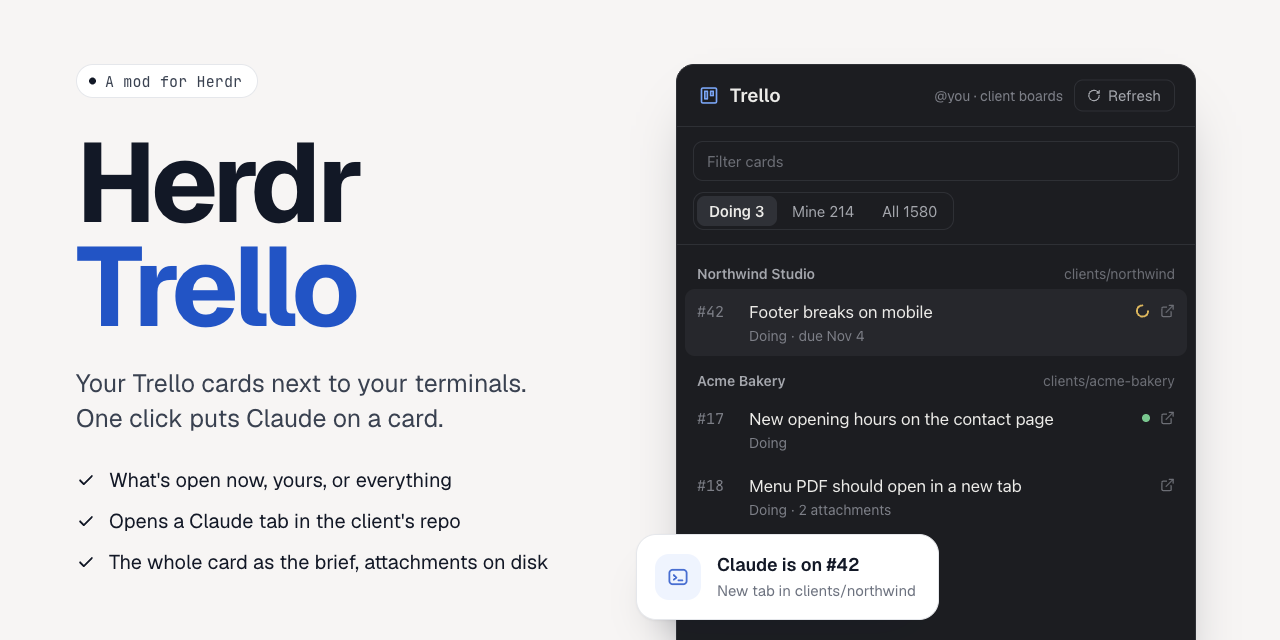
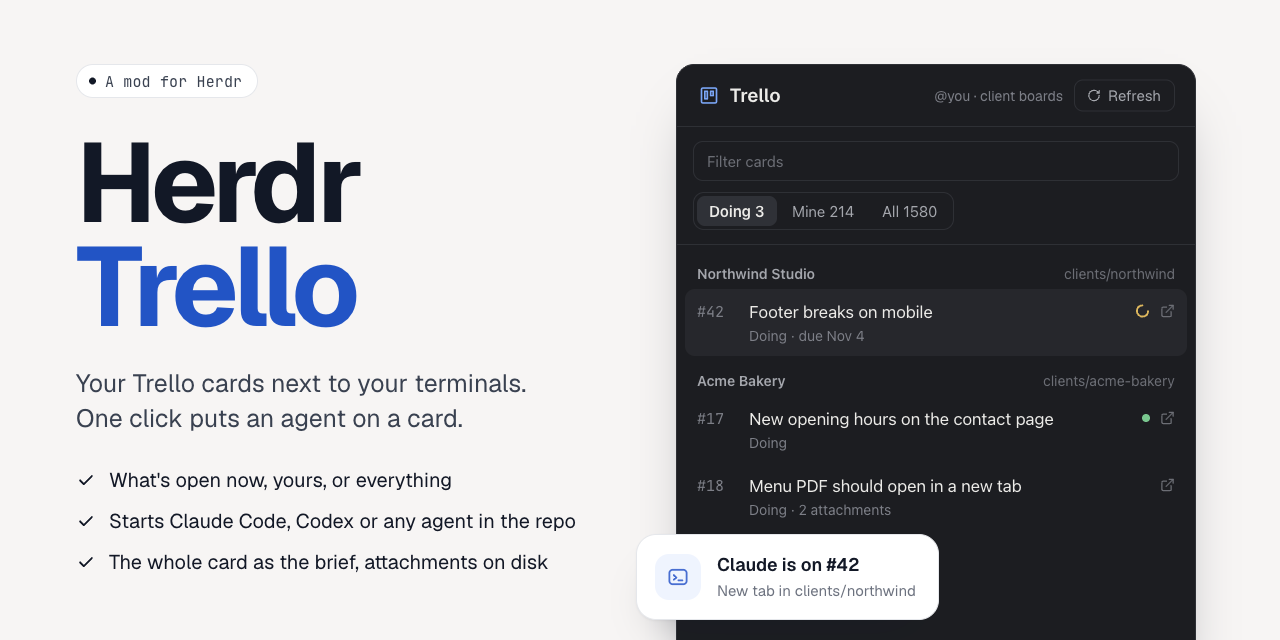
Trello: the agent a card starts is a setting
`agent` in settings.json (default ["claude"]) is what a card's tab runs, so
Codex or any other agent Herdr runs works too. The buttons and notices use its
name. README and the social image say so.

Claude-Session: https://claude.ai/code/session_01MQx9JMZZstjxJFi87a3Xjn

Changed region(s): [[0.0938, 0.7812, 0.4375, 0.8438], [0.1875, 0.625, 0.3438, 0.6875]]

diff --git a/mods/trello/start.js b/mods/trello/start.js
@@ -1,5 +1,5 @@
 import { spaces, panes, run, notify, pickFolder, shared, setShared } from "herdr";
-import { settings, expand, short, inside } from "./api.js";
+import { settings, expand, short, inside, agentArgv, agentName } from "./api.js";
 import { brief } from "./brief.js";
 
 // The mod's shared state, one key so a redraw asks Herdr once, seen by the panel and the card
@@ -66,7 +66,7 @@ export async function pickRepo(board) {
   return folder;
 }
 
-// A new Claude tab in the board's folder with the card as its brief. `card`: { id, number, title,
+// A new agent tab in the board's folder with the card as its brief. `card`: { id, number, title,
 // board }; `raw`: the card as the dialog loaded it, so it isn't fetched twice. Resolves with the
 // folder used, or null when no folder was picked.
 export async function start(card, repo, raw = null) {
@@ -77,8 +77,8 @@ export async function start(card, repo, raw = null) {
     dir: `${expand(config.attachments)}/${card.board.replace(/[\\/:]+/g, "-")} #${card.number}` });
   if (r.empty) throw new Error("This card is empty. Give it a title that says what to do, then try again.");
   const name = tabName(card), space = spaceFor(repo);
-  if (space) run("tab.new", { space: space.id, name, folder: repo, argv: ["claude"], task: r.brief });
-  else run("space.new", { folder: repo, tab: name, argv: ["claude"], task: r.brief });
+  if (space) run("tab.new", { space: space.id, name, folder: repo, argv: agentArgv(config), task: r.brief });
+  else run("space.new", { folder: repo, tab: name, argv: agentArgv(config), task: r.brief });
   // Remember the new tab, so the next click on this card goes there. Found by its name among the
   // tabs no other card has: "the active tab" can still be the old one right after tab.new, and a
   // wrong link is worse than none (no link only means the next click opens a fresh tab).
@@ -86,6 +86,6 @@ export async function start(card, repo, raw = null) {
   const now = space ? spaces().find((s) => s.id === space.id) : spaces().find((s) => s.folder === repo);
   const tab = now?.tabs.find((t) => t.name === name && !taken.has(t.id));
   if (tab) update("links", { [card.id]: tab.id }, true);
-  notify({ title: "Claude is on it", body: `#${card.number} ${card.title} · ${short(repo)}`, level: "success", timeout: 3000 });
+  notify({ title: `${agentName()} is on it`, body: `#${card.number} ${card.title} · ${short(repo)}`, level: "success", timeout: 3000 });
   return repo;
 }

diff --git a/mods/trello/viewer.js b/mods/trello/viewer.js
@@ -2,7 +2,7 @@ import * as fs from "fs/promises";
 import { div, image } from "gpui-kit";
 import { v_flex, h_flex, TextView, TextareaState, Textarea } from "gpui-base";
 import { exec, theme, closeOverlay, openOverlay } from "herdr";
-import { trello, short, data } from "./api.js";
+import { trello, short, data, agentName } from "./api.js";
 import { glyph, spinner } from "./icons.js";
 import { blocks, picture, failed, loadPicture } from "./pictures.js";
 import { start, tabOf, goTo, pickRepo, nudge } from "./start.js";
@@ -161,7 +161,7 @@ export class Viewer {
     cx.notify();
   }
 
-  // Start Claude on the card, or go to the tab it already has. The dialog closes so the tab shows.
+  // Start the agent on the card, or go to the tab it already has. The dialog closes so the tab shows.
   claude(cx) {
     const open = tabOf(this.card.id);
     if (open) { goTo(open); closeOverlay(this.overlay); return; }
@@ -318,7 +318,7 @@ export class Viewer {
       .hover((s) => s.opacity(0.88)).on_click((_e, cx) => this.claude(cx))
       .child(this.starting || status === "working" ? spinner(open ? t.working : t.solid_foreground, 14)
         : open ? div().size(8).rounded(4).bg(t[status] ?? t.idle) : glyph("terminal", 16, t.solid_foreground))
-      .child(this.starting ? "Writing the brief…" : open ? "Go to Claude tab" : "Start Claude");
+      .child(this.starting ? "Writing the brief…" : open ? `Go to ${agentName()} tab` : `Start ${agentName()}`);
     return v_flex().id("card-sidebar").w(280).flex_none().min_h(0).overflow_y_scrollbar().pl(8).pr(28).pt(16)
       .child(v_flex().flex_none().gap(10).pb(16).border_b(1).border_color(t.border)
         .child(claude)

diff --git a/mods/trello/api.js b/mods/trello/api.js
@@ -6,6 +6,7 @@ export const DEFAULTS = {
   envFile: "~/.config/trello/.env",       // holds TRELLO_KEY and TRELLO_TOKEN
   folders: ["~/Sites/clients"],           // where a board's repo is guessed from its name
   attachments: "~/Downloads/trello",      // a card's uploads go to "<board> #<number>" in here
+  agent: ["claude"],                      // what a card's tab runs: the agent and its arguments
   repos: {},                              // board name → folder, for boards the guess gets wrong
   current: ["Doing"],                     // the list(s) of open requests; a board with one is a client board
   done: ["Done", "Approved", "Archive"],  // finished lists, shown dimmed
@@ -40,6 +41,13 @@ export async function settings() {
   }
   return config;
 }
+
+// The agent a card's tab runs, as a command line and as a name for buttons ("codex" is "Codex").
+export const agentArgv = (c) => [c.agent].flat();
+export const agentName = () => {
+  const cmd = agentArgv(config ?? DEFAULTS)[0].split("/").pop();
+  return cmd[0].toUpperCase() + cmd.slice(1);
+};
 
 // Read settings.json and the env file again on next use.
 export function reload() { config = null; auth = null; }

diff --git a/README.md b/README.md
@@ -2,12 +2,12 @@
 
 ![Herdr Trello: your Trello cards next to your terminals](social.png)
 
-A Trello panel for the [Herdr](https://herdr.dev) desktop app. It lists the cards on your client boards (what's in your Doing list now, yours, or everything), opens any card in a large view, and starts Claude on it in that client's repository, with the card as the brief. It stands on its own: Trello's API, `curl` and Claude, nothing else.
+A Trello panel for the [Herdr](https://herdr.dev) desktop app. It lists the cards on your client boards (what's in your Doing list now, yours, or everything), opens any card in a large view, and starts a coding agent on it in that client's repository, with the card as the brief: Claude Code by default, or Codex or any other agent Herdr runs. It stands on its own: Trello's API, `curl` and your agent, nothing else.
 
 - **Three tabs.** **Doing** (or whatever `current` names): the cards in that list on every client board, yours and unassigned ones (a board with that list is a client board). **Mine**: every card you're a member of on those boards, old ones included. **All**: every card on those boards. Finished cards (the `done` lists) show dimmed; the filter searches number, title, board, list and labels. The 100 most recently active matches are drawn.
 - **Cached like Herdr Issues.** One file per board, so the list shows at once. Every minute while the panel shows, one call lists the boards; only boards with new activity get their cards fetched again, and every 6 hours all of them.
-- **The card view.** A click opens the card as a dialog: the description with its images, checklists you can tick, attachments (images as previews), the comments and moves, and a box to comment. The sidebar has **Start Claude**, the folder, the list (with Move), members, labels and the due date.
-- **Start Claude.** The card view reads the whole card (description, checklists, comments), downloads its uploads to `~/Downloads/trello/<board> #<number>/`, and opens a new tab named `#<number> <title>` running `claude` with the brief as its first message. The card text sits between markers in the brief, so the agent reads it as the job and not as orders, and the brief asks for a comment on the card with the result; moving the card stays with you. The tab goes in the space already working in that folder, or a new space. Clicking the card again takes you to its tab, and the row shows that agent's status.
+- **The card view.** A click opens the card as a dialog: the description with its images, checklists you can tick, attachments (images as previews), the comments and moves, and a box to comment. The sidebar has **Start Claude** (or the agent you set), the folder, the list (with Move), members, labels and the due date.
+- **Start the agent.** The card view reads the whole card (description, checklists, comments), downloads its uploads to `~/Downloads/trello/<board> #<number>/`, and opens a new tab named `#<number> <title>` running `claude` (or what `agent` says) with the brief as its first message. The card text sits between markers in the brief, so the agent reads it as the job and not as orders, and the brief asks for a comment on the card with the result; moving the card stays with you. The tab goes in the space already working in that folder, or a new space. Clicking the card again takes you to its tab, and the row shows that agent's status.
 - **Folders.** Each board header shows the folder its cards are worked on in: the one you picked, else a guess from the folder names under `folders`. Click the folder (or "no folder") to pick another one with the system's folder picker; the choice is saved.
 - **In this terminal.** Trello card links on the focused terminal's screen (an agent's "commented on https://trello.com/c/…") show at the top.
 - **This folder first.** The board whose folder you're working in comes first, marked with a dot.
@@ -45,6 +45,7 @@ touch -h ~/.config/herdr-app/mods/trello
   "envFile": "~/.config/trello/.env",
   "folders": ["~/Sites/clients", "~/Sites/products"],
   "attachments": "~/Downloads/trello",
+  "agent": ["claude"],
   "repos": { "Acme Studio": "~/Sites/clients/acme-studio" },
   "current": ["Doing"],
   "done": ["Done", "Approved", "Archive"]
@@ -55,6 +56,7 @@ touch -h ~/.config/herdr-app/mods/trello
 - `folders`: where a board's folder is guessed. A folder matches on whole words, at least half of the board's words, or on the board's name run together.
 - `repos`: board name → folder, for boards the guess gets wrong. A folder picked in the panel is kept by Herdr itself and wins over this.
 - `attachments`: where a card's uploads go, in a folder `<board> #<number>`.
+- `agent`: what a card's tab runs, with its arguments. Default `["claude"]`; `["codex"]` starts Codex. The buttons and notices use its name.
 - `current`: the list name(s) of open requests, matched as whole names (an emoji in front doesn't count). A board with one is a client board; the first name labels the first tab.
 - `done`: list names whose cards show dimmed, matched the same way ("Undone" is not "Done").
 
